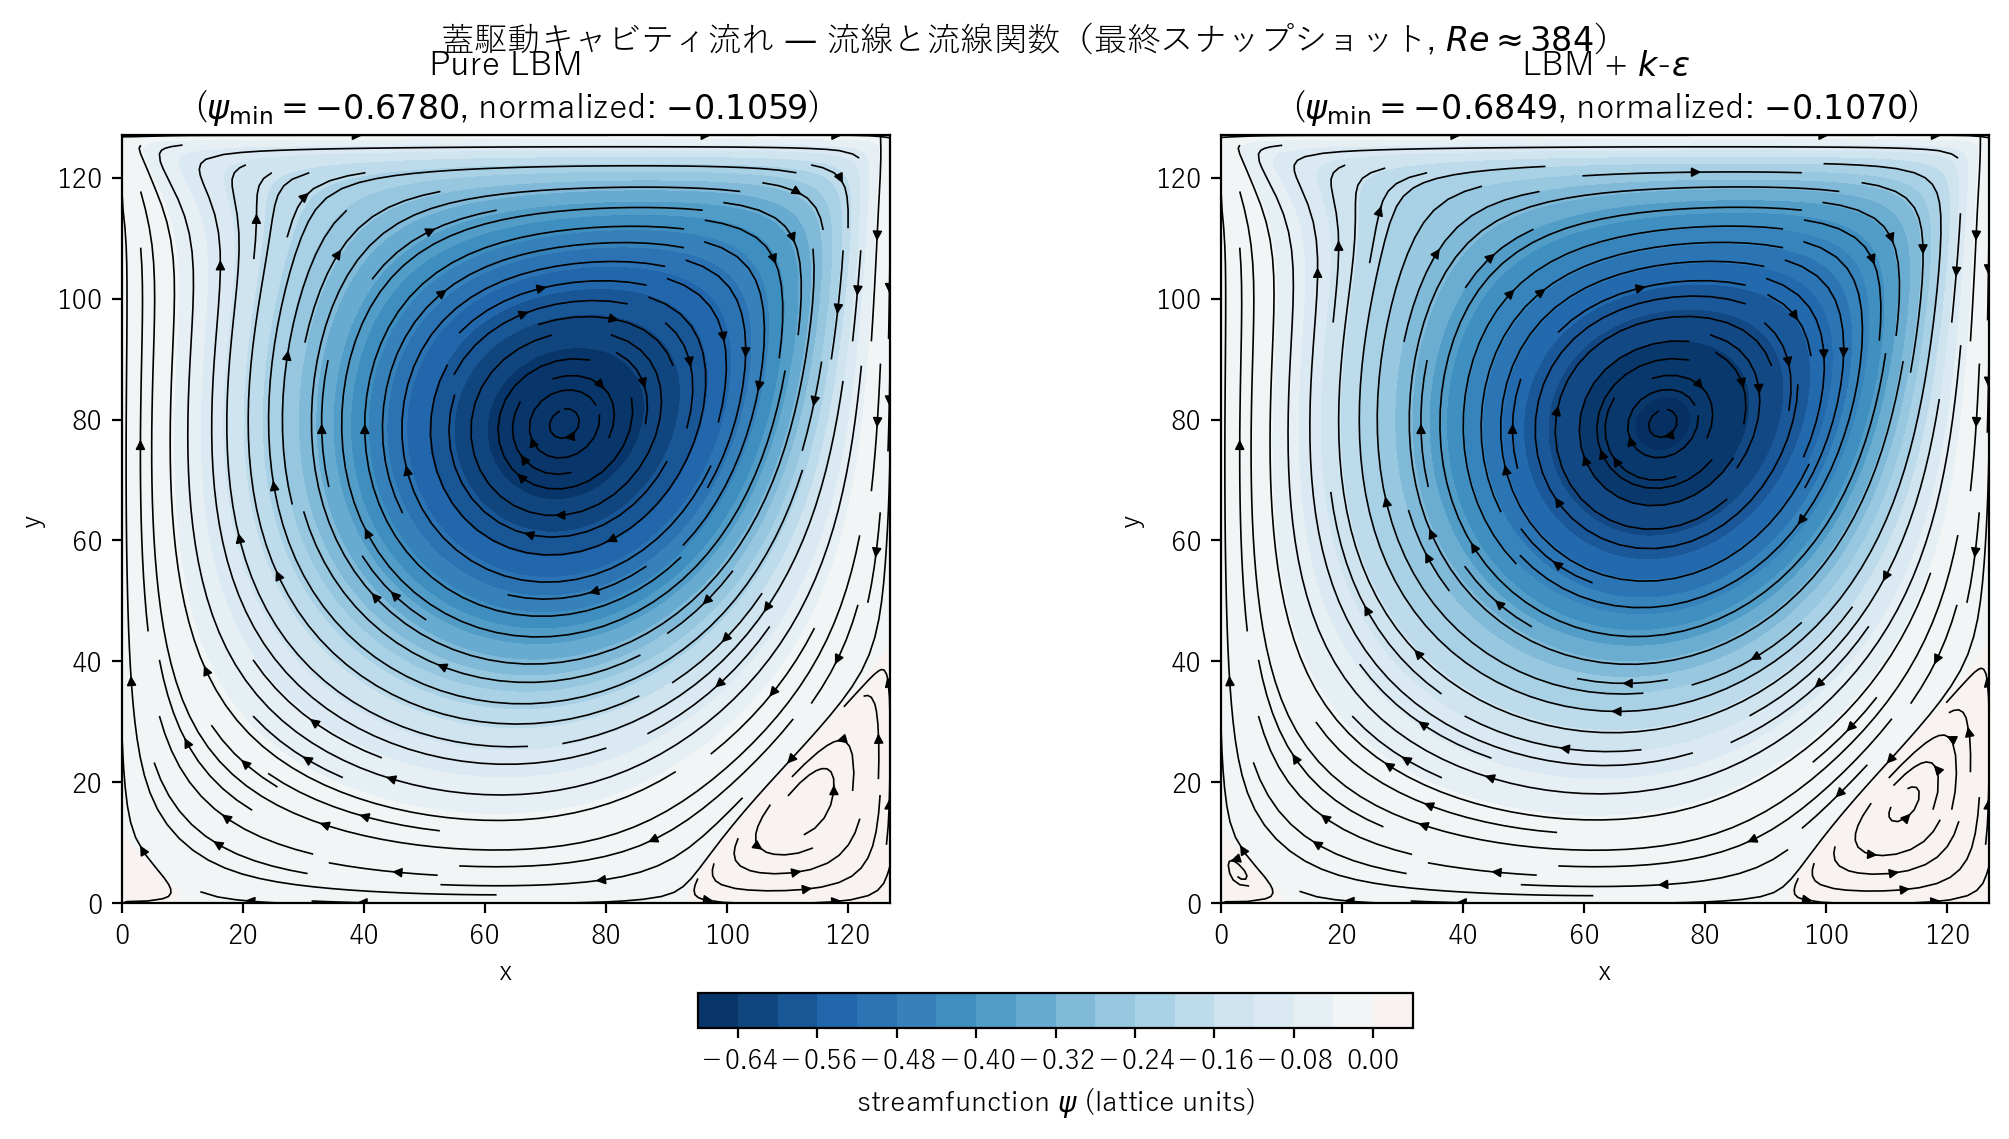
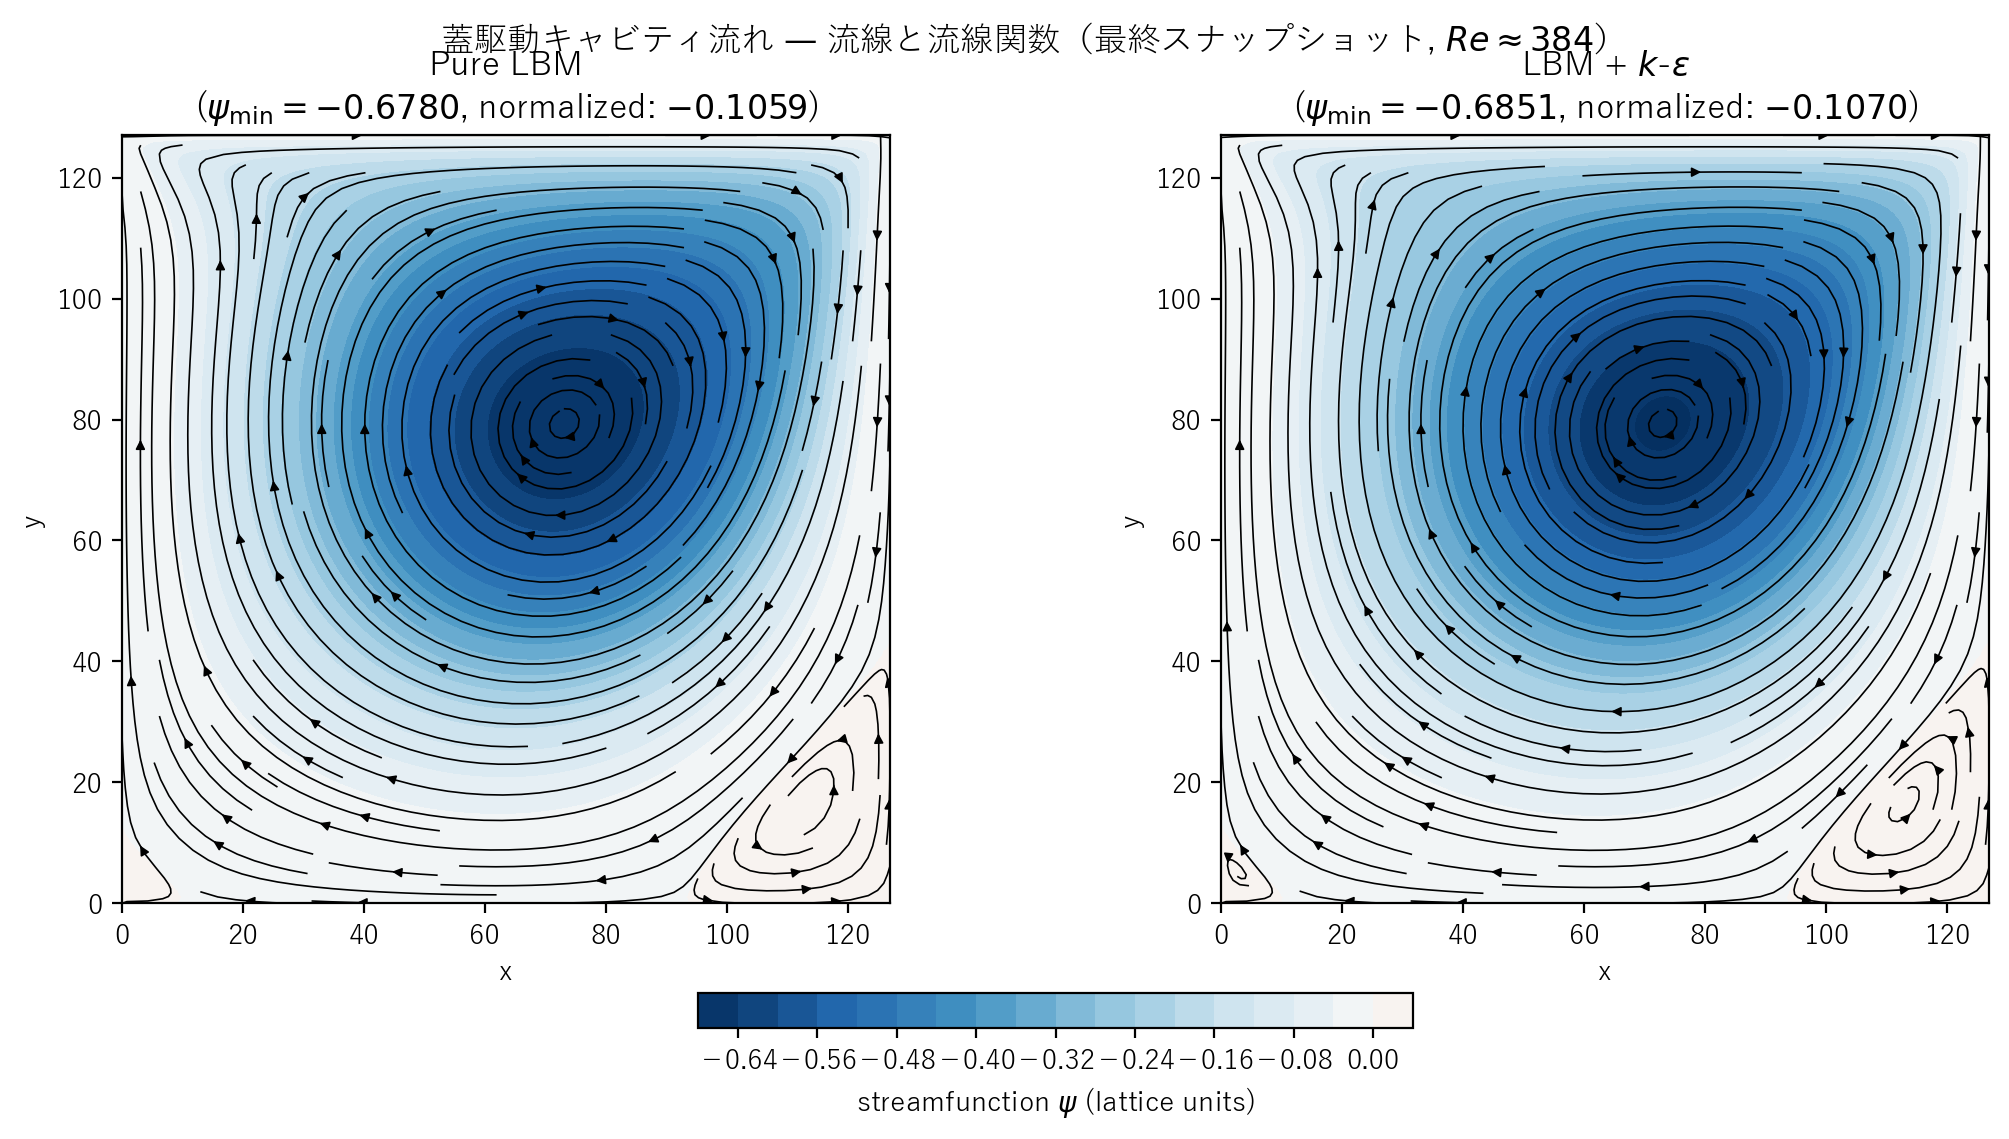
Fix corner-cell wall function override in cavity k-eps
Drop the per-loop k_new[i]=0, eps_new[i]=0 resets in cavity_keps.c.
apply_wall_function already does max(existing, new_estimate), so
removing the resets finally lets the four corner cells (each touched
by two wall loops) take the dominant shear instead of only the last
loop's value.

This is the same bug pattern fixed for backward_step in PR #14, and
the same code shape that the cavity review (PR #13) already flagged.
The original cavity comment "コーナー（2 壁の合流点）では両壁の推定
値の大きい方を採用" was the intent but the code didn't actually
implement it.

Bulk impact is negligible (4 corner cells out of 128*128 = 16384):
- pure x_R/H, primary vortex strength: unchanged
- k-eps psi_min: -0.6849 -> -0.6851 (0.03% diff)
- k-eps avg nu_t/nu_0: 0.039 -> 0.040
The fix is correct in spirit but bulk metrics are dominated by the
non-corner cells. Result PNGs regenerated for completeness.

diff --git a/src/sec4/cavity_keps.c b/src/sec4/cavity_keps.c
@@ -182,33 +182,28 @@ void update_kepsilon() {
                             - Ce2*eps[i]*eps[i]/(k[i]+1e-12));
         }
     }
-    // Wall functions on the four wall layers (overwrite k_new, eps_new).
+    // Wall functions on the four wall layers. Do NOT reset k_new/eps_new
+    // per-loop — apply_wall_function already takes max(existing, estimate),
+    // so the four corner cells (each touched by two wall loops) properly
+    // pick up the dominant shear instead of the last loop's value.
     // Top wall (y=NY-1): tangential gradient uses U_LID - u(NY-1)
     for (int x = 0; x < NX; ++x) {
         int i = IDX(x, NY-1);
-        // Initialize for fresh top-wall calc
-        k_new[i] = 0; eps_new[i] = 0;
         apply_wall_function(i, U_LID - u[i]);
     }
     // Bottom wall (y=0): u_wall = 0
     for (int x = 0; x < NX; ++x) {
         int i = IDX(x, 0);
-        k_new[i] = 0; eps_new[i] = 0;
         apply_wall_function(i, u[i]);
     }
     // Left wall (x=0): v_wall = 0; tangential is v
     for (int y = 0; y < NY; ++y) {
         int i = IDX(0, y);
-        // Don't reset corners — top/bottom already wrote them
-        if (y == 0 || y == NY-1) continue;
-        k_new[i] = 0; eps_new[i] = 0;
         apply_wall_function(i, v[i]);
     }
     // Right wall (x=NX-1)
     for (int y = 0; y < NY; ++y) {
         int i = IDX(NX-1, y);
-        if (y == 0 || y == NY-1) continue;
-        k_new[i] = 0; eps_new[i] = 0;
         apply_wall_function(i, v[i]);
     }
     // Apply non-negativity floor and commit
